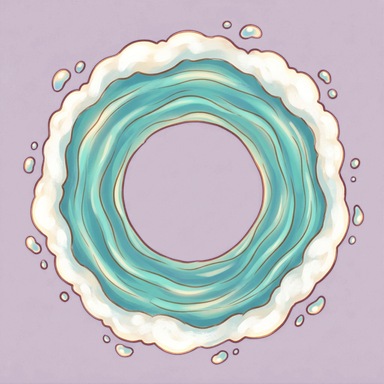
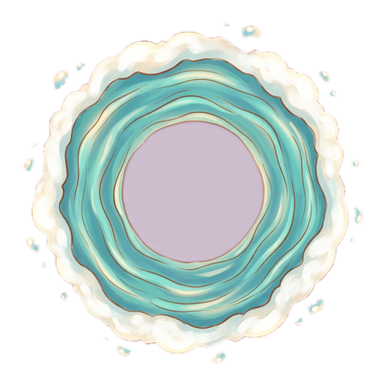
VFX : fonds détourés proprement + animations spatiales pour tous les ultimes
Flood-fill adaptatif depuis les bords sur les 11 sprites qui gardaient un
fond peint (plus de rectangles). Animations retravaillées avec du mouvement
en perspective : boucliers d'écorce et engrenages en orbite descendante
autour des alliés, entailles qui traversent la cible, double vague croisée,
impacts additifs au sol des flèches, cadran astral de Nhyx posé au sol en
perspective sur tout le terrain, éclats solaires/muzzle en blending additif.

Claude-Session: https://claude.ai/code/session_01A2eyqV2EqMAu5eWGJ3FCxy

diff --git a/game/game.js b/game/game.js
@@ -653,7 +653,8 @@ function fxSprite(at, name, opts = {}) {
   if (!fxOn() || B.fxList.length > 120) return;
   const c = at.hero ? unitPos(at, opts.hFrac ?? 0.5) : at;
   const mat = new T.SpriteMaterial({ map: fxTex(name), transparent: true, opacity: 0,
-    depthWrite: false, rotation: opts.rot || 0 });
+    depthWrite: false, rotation: opts.rot || 0,
+    ...(opts.add ? { blending: T.AdditiveBlending } : {}) });
   const m = new T.Sprite(mat);
   if (opts.anchorBottom) m.center.set(0.5, 0);
   const y = opts.y !== undefined ? opts.y : c.y;
@@ -661,19 +662,22 @@ function fxSprite(at, name, opts = {}) {
   m.scale.setScalar(0.01);
   m.visible = !opts.delay;
   B.t3.scene.add(m);
-  B.fxList.push({ kind: "spr", m, t: -(opts.delay || 0), dur: opts.dur || 700,
+  const entry = { kind: "spr", m, t: -(opts.delay || 0), dur: opts.dur || 700,
     size: opts.size || 1.6, grow: opts.grow || 0, rise: opts.rise || 0,
     fall: opts.fall || null, dx: opts.dx || 0, spin: opts.spin || 0,
-    x0: m.position.x, y0: y, flipX: !!opts.flipX });
+    x0: m.position.x, y0: y, flipX: !!opts.flipX };
+  if (opts.orbit) entry.orbit = { cx: c.x, cz: c.z, r: opts.orbit.r, turns: opts.orbit.turns,
+    a0: opts.orbit.a0 || Math.random() * Math.PI * 2 };
+  B.fxList.push(entry);
 }
 // sigil : dessin posé au sol qui tourne et s'évanouit
-function fxSigil(u, name, opts = {}) {
+function fxSigil(at, name, opts = {}) {
   if (!fxOn() || B.fxList.length > 120) return;
   fxGeo();
   const m = new T.Mesh(new T.PlaneGeometry(1, 1),
     new T.MeshBasicMaterial({ map: fxTex(name), transparent: true, opacity: 0, depthWrite: false, side: T.DoubleSide }));
   m.rotation.x = -Math.PI / 2;
-  const c = unitPos(u, 0);
+  const c = at.hero ? unitPos(at, 0) : at;
   m.position.set(c.x, 0.06, c.z);
   m.visible = !opts.delay;
   B.t3.scene.add(m);
@@ -814,7 +818,11 @@ function fxUpdate(dt) {
       let yy = f.y0 + f.rise * p;
       if (f.fall) yy = f.fall.from + (f.fall.to - f.fall.from) * Math.min(1, p * 1.25);
       f.m.position.y = yy;
-      f.m.position.x = f.x0 + f.dx * p;
+      if (f.orbit) {
+        const ang = f.orbit.a0 + f.orbit.turns * Math.PI * 2 * p;
+        f.m.position.x = f.orbit.cx + f.orbit.r * Math.cos(ang);
+        f.m.position.z = f.orbit.cz + f.orbit.r * Math.sin(ang);
+      } else f.m.position.x = f.x0 + f.dx * p;
       if (f.spin) f.m.material.rotation += f.spin * dt / 1000;
     } else if (f.kind === "sigil") {
       f.m.scale.setScalar(f.size * (0.35 + 0.65 * Math.min(1, p * 3)));
@@ -841,21 +849,23 @@ function fxUlt(u, k, foes, mates) {
       fxFlash("#ffd76a");
       F.forEach((e, i) => {
         fxSigil(e, "sigil_sun", { size: 2.6, dur: 1000, spin: 2.2, delay: i * 60 });
-        fxSprite(e, "burst_sun", { size: 2.8, dur: 520, delay: i * 60, hFrac: 0.55, spin: 1.5 });
+        fxSprite(e, "burst_sun", { size: 2.8, dur: 520, delay: i * 60, hFrac: 0.55, spin: 1.5, add: true });
         fxBeam(e, "#fff6d8", { w: 0.28, dur: 600, delay: i * 60 });
       });
       fxSigil(u, "sigil_sun", { size: 3.2, dur: 900, spin: -1.8 });
       return;
-    case "bramble": // Cœur de l'Ancien : emblème de bouclier d'écorce + dôme + sève
-      for (const a of M) {
-        fxSprite(a, "shield_leaf", { size: 1.5, dur: 1000, rise: 0.7, hFrac: 0.95 });
+    case "bramble": // Cœur de l'Ancien : les boucliers d'écorce descendent en orbite autour des alliés
+      M.forEach((a, i) => {
+        fxSprite(a, "shield_leaf", { size: 1.15, dur: 1200, delay: i * 90, hFrac: 1.15,
+          rise: -1.1, orbit: { r: 0.95, turns: 1.4 } });
         fxDome(a, "#7fd08a");
         fxRise(a, "#a8e6a0", 3, { size: 1.1 });
-      }
+      });
       return;
     case "maelle": // Marée Berceuse : vraie vague qui balaie l'équipe + ronds d'eau
       fxFlash("#7fd6ef");
       fxSprite({ x: -5.5, y: 1.1, z: 3.2 }, "wave", { size: 4.2, dur: 950, dx: 11 });
+      fxSprite({ x: 5.5, y: 1.0, z: 4.4 }, "wave", { size: 3.4, dur: 950, dx: -11, delay: 220, flipX: true });
       for (const a of M) fxSigil(a, "ring_water", { size: 2.6, dur: 900, spin: 0.8, delay: 200 });
       for (const a of M) fxRise(a, "#9fe3ff", 5, { size: 1.3, dur: 1000 });
       return;
@@ -865,8 +875,8 @@ function fxUlt(u, k, foes, mates) {
         u.fxDash = { x: t.obj.position.x, z: t.obj.position.z, t: 0 };
         fxRing(t, "#164a5e", 2.2, 400);
         setTimeout(() => { if (B && !B.over) {
-          fxSprite(t, "slash", { size: 3.0, dur: 340, hFrac: 0.55, rot: 0.5 });
-          fxSprite(t, "slash", { size: 3.0, dur: 340, hFrac: 0.55, rot: -0.5, flipX: true, delay: 90 });
+          fxSprite(t, "slash", { size: 2.8, dur: 300, hFrac: 0.55, rot: 0.5, ox: -1.3, dx: 2.6, add: true });
+          fxSprite(t, "slash", { size: 2.8, dur: 300, hFrac: 0.55, rot: -0.5, flipX: true, ox: 1.3, dx: -2.6, delay: 130, add: true });
         } }, 240);
       }
       return;
@@ -877,12 +887,15 @@ function fxUlt(u, k, foes, mates) {
       return;
     case "vesperine": // Bal des Lanternes : vraies lanternes dessinées qui volent (tir par tir)
       return;
-    case "pipbogue": // Surrégime ! : engrenages de cuivre qui tournent + vapeur
-      for (const a of M) {
-        fxSprite(a, "gear", { size: 1.1, dur: 1000, spin: 5, rise: 1.3, hFrac: 0.9 });
+    case "pipbogue": // Surrégime ! : les engrenages orbitent autour de chaque allié + vapeur
+      M.forEach((a, i) => {
+        fxSprite(a, "gear", { size: 0.85, dur: 1100, delay: i * 70, spin: 6, hFrac: 0.35,
+          rise: 1.5, orbit: { r: 0.85, turns: 2.2 } });
+        fxSprite(a, "gear", { size: 0.6, dur: 1100, delay: i * 70 + 180, spin: -5, hFrac: 0.6,
+          rise: 1.2, orbit: { r: 0.7, turns: -1.8 } });
         fxSprite(a, "smoke", { size: 1.6, dur: 900, rise: 1.1, hFrac: 0.2 });
         fxRing(a, "#ffb066", 2.0);
-      }
+      });
       return;
     case "sylvarende": // Chant des Racines-Monde : vraies ronces qui poussent + pétales
       F.forEach((e, i) => {
@@ -892,10 +905,10 @@ function fxUlt(u, k, foes, mates) {
       return;
     case "theoline": // Pluie d'Aube : flèches de lumière dessinées qui tombent (tir par tir)
       return;
-    case "nhyx": // Heure Silencieuse : horloge astrale géante + onde temporelle
+    case "nhyx": // Heure Silencieuse : cadran astral géant posé sur le terrain, en perspective
       fxFlash("#8fd8ff");
-      fxSprite({ x: 0, y: 2.2, z: -1 }, "clock", { size: 3.5, dur: 1100, grow: 2.6, spin: 0.6 });
-      fxRingV("#bfe9ff", { max: 14, dur: 800, delay: 150 });
+      fxSigil({ x: 0, z: -0.8 }, "clock", { size: 13, dur: 1400, spin: 0.45 });
+      fxRingV("#bfe9ff", { max: 14, dur: 800, delay: 200 });
       for (const e of F) fxBurst(e, "#cfe9ff", 7);
       return;
   }
@@ -1079,7 +1092,7 @@ function castUltimate(u, foes, mates) {
           if (t) {
             dealDamage(u, t, pct);
             fxProjectile(u, t, "#e0813f");
-            fxSprite(u, "muzzle", { size: 1.0, dur: 200, hFrac: 0.35, ox: 0.95, oz: u.side === "ally" ? -0.4 : 0.4 });
+            fxSprite(u, "muzzle", { size: 1.0, dur: 200, hFrac: 0.35, ox: 0.95, oz: u.side === "ally" ? -0.4 : 0.4, add: true });
           } } });
       break;
     case "lanterns":
@@ -1099,6 +1112,7 @@ function castUltimate(u, foes, mates) {
           if (u.id === "theoline") {
             const c0 = unitPos(t, 0);
             fxSprite({ x: c0.x, y: 0, z: c0.z }, "arrow", { size: 1.7, dur: 300, delay: i * 55, fall: { from: 5, to: 0.6 } });
+            fxSprite({ x: c0.x, y: 0.5, z: c0.z }, "burst_sun", { size: 1.1, dur: 220, delay: i * 55 + 210, add: true });
           }
           else fxProjectile(u, t, FACTIONS[u.hero.faction].color, { dur: 150, size: 1.0, burst: false }); } }
       for (const a of alive(mates)) a.energy = Math.min(BAL.energy_max, a.energy + k.energy);
